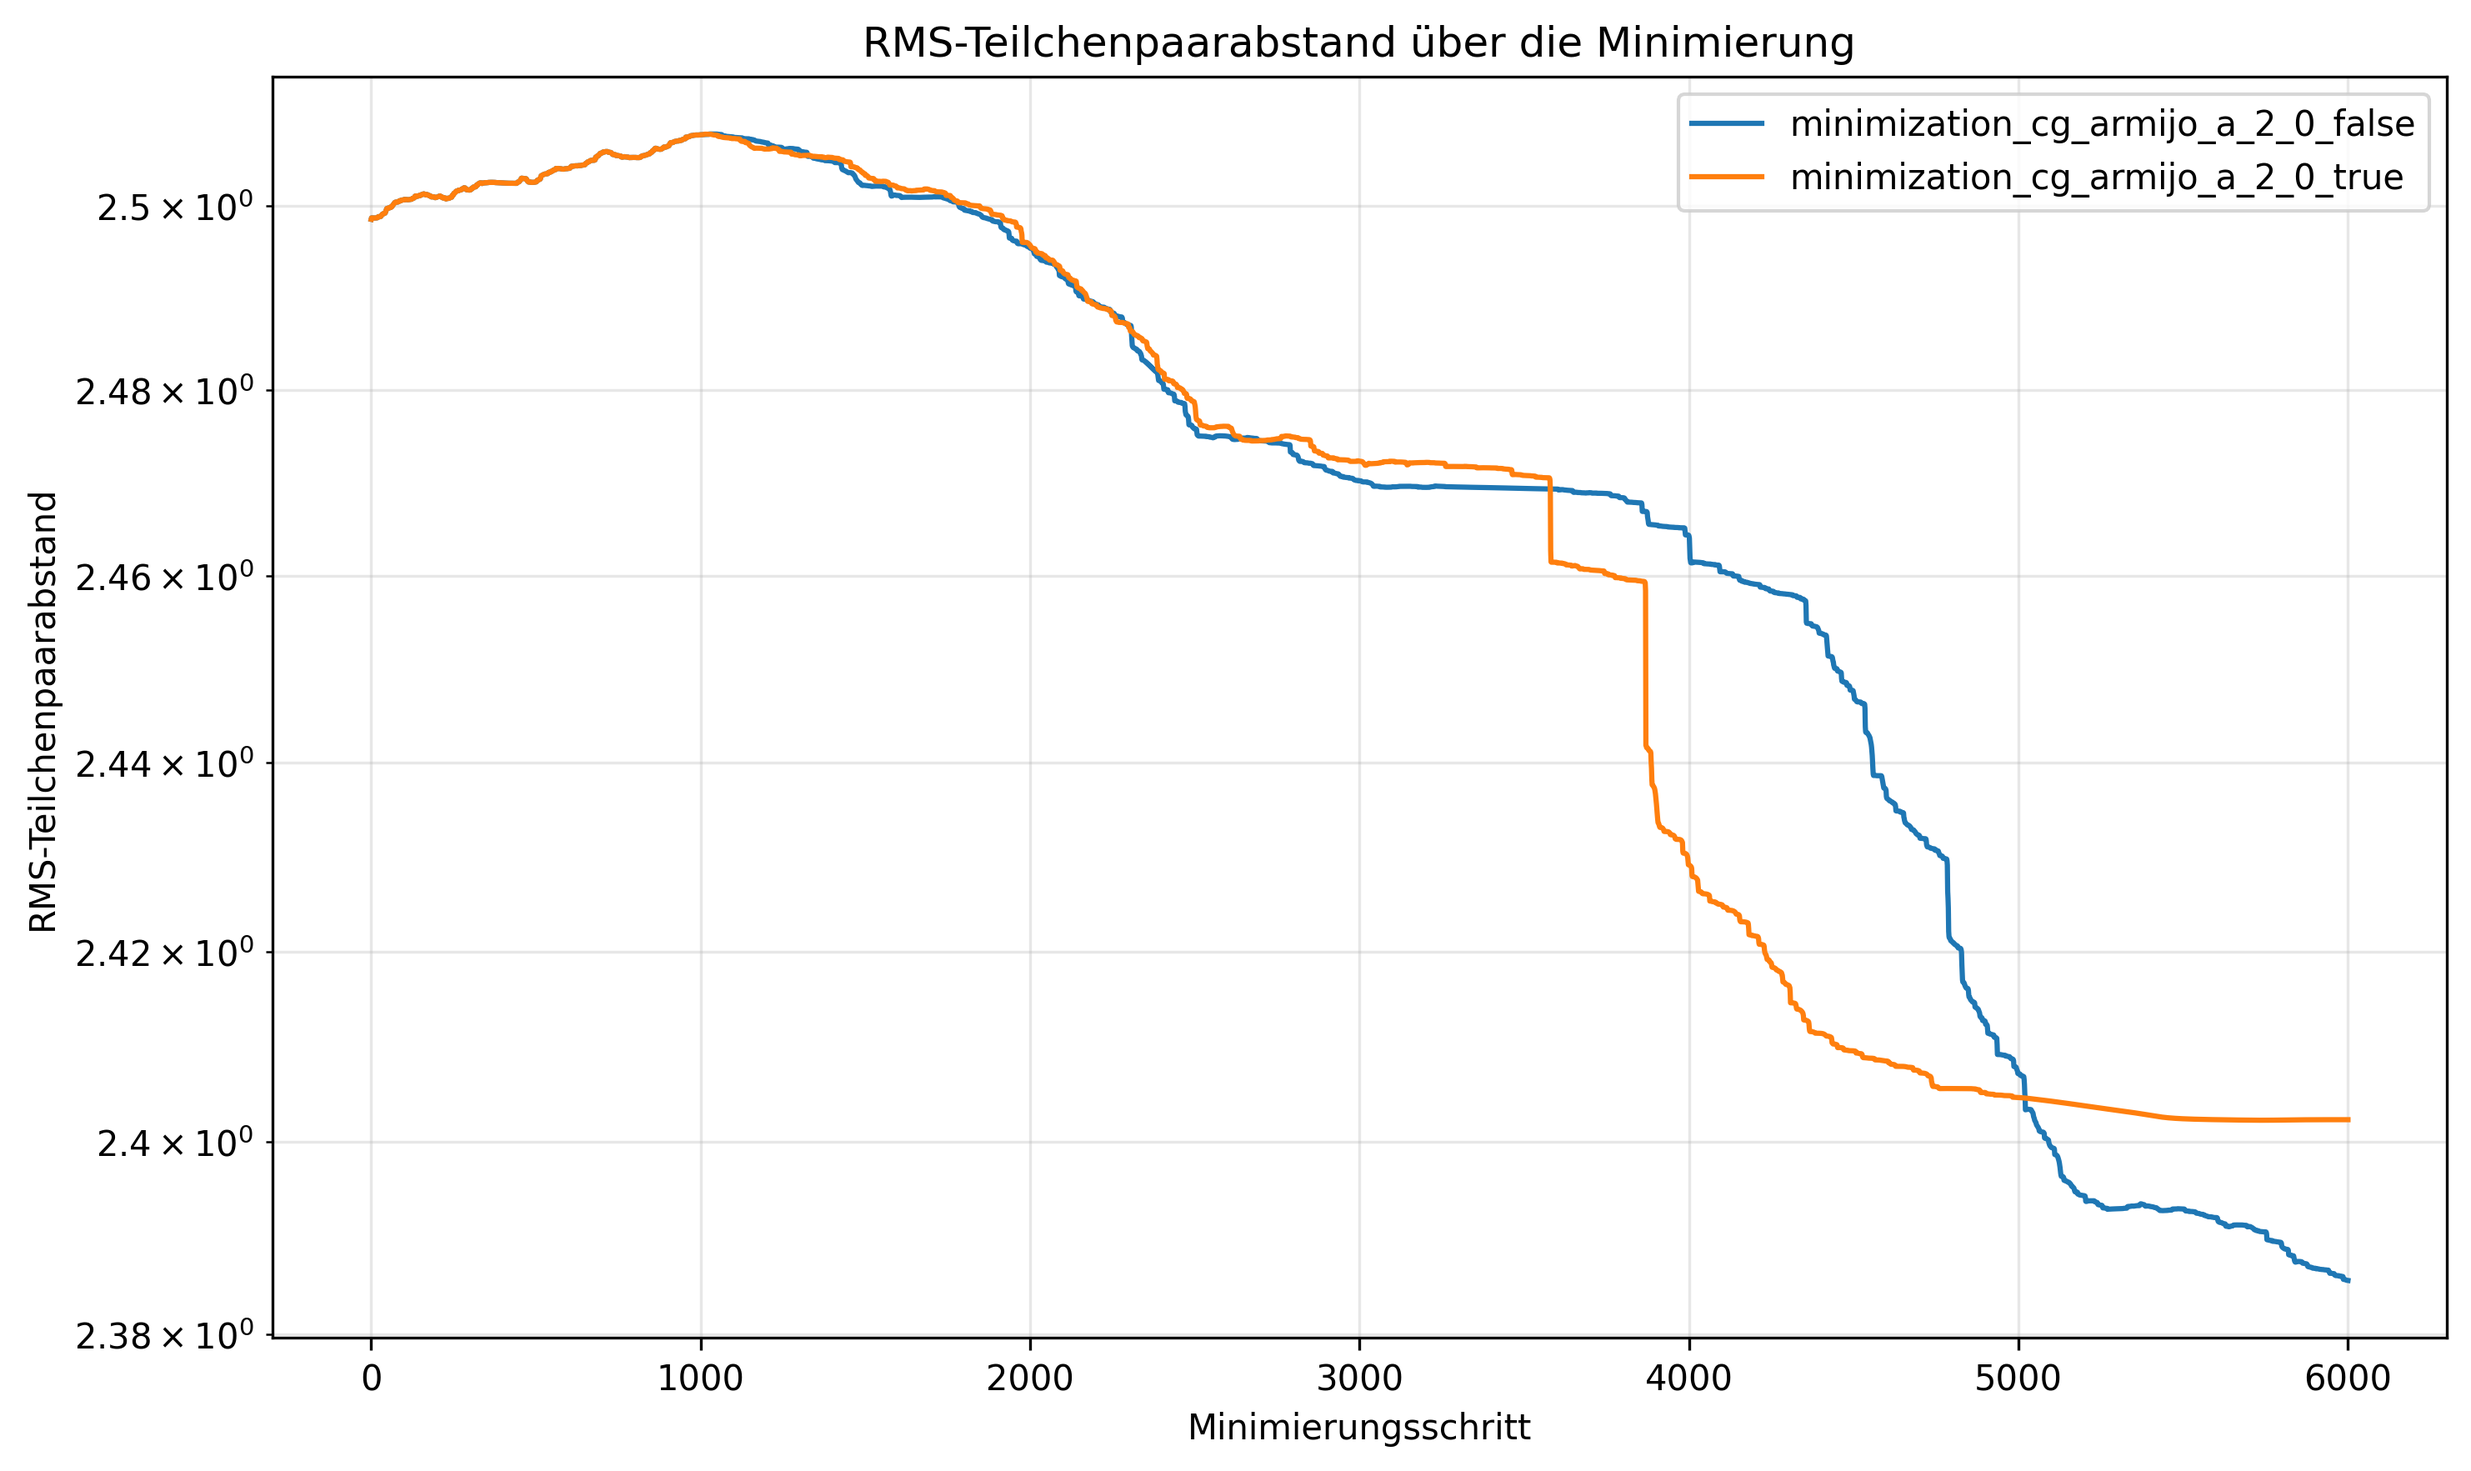
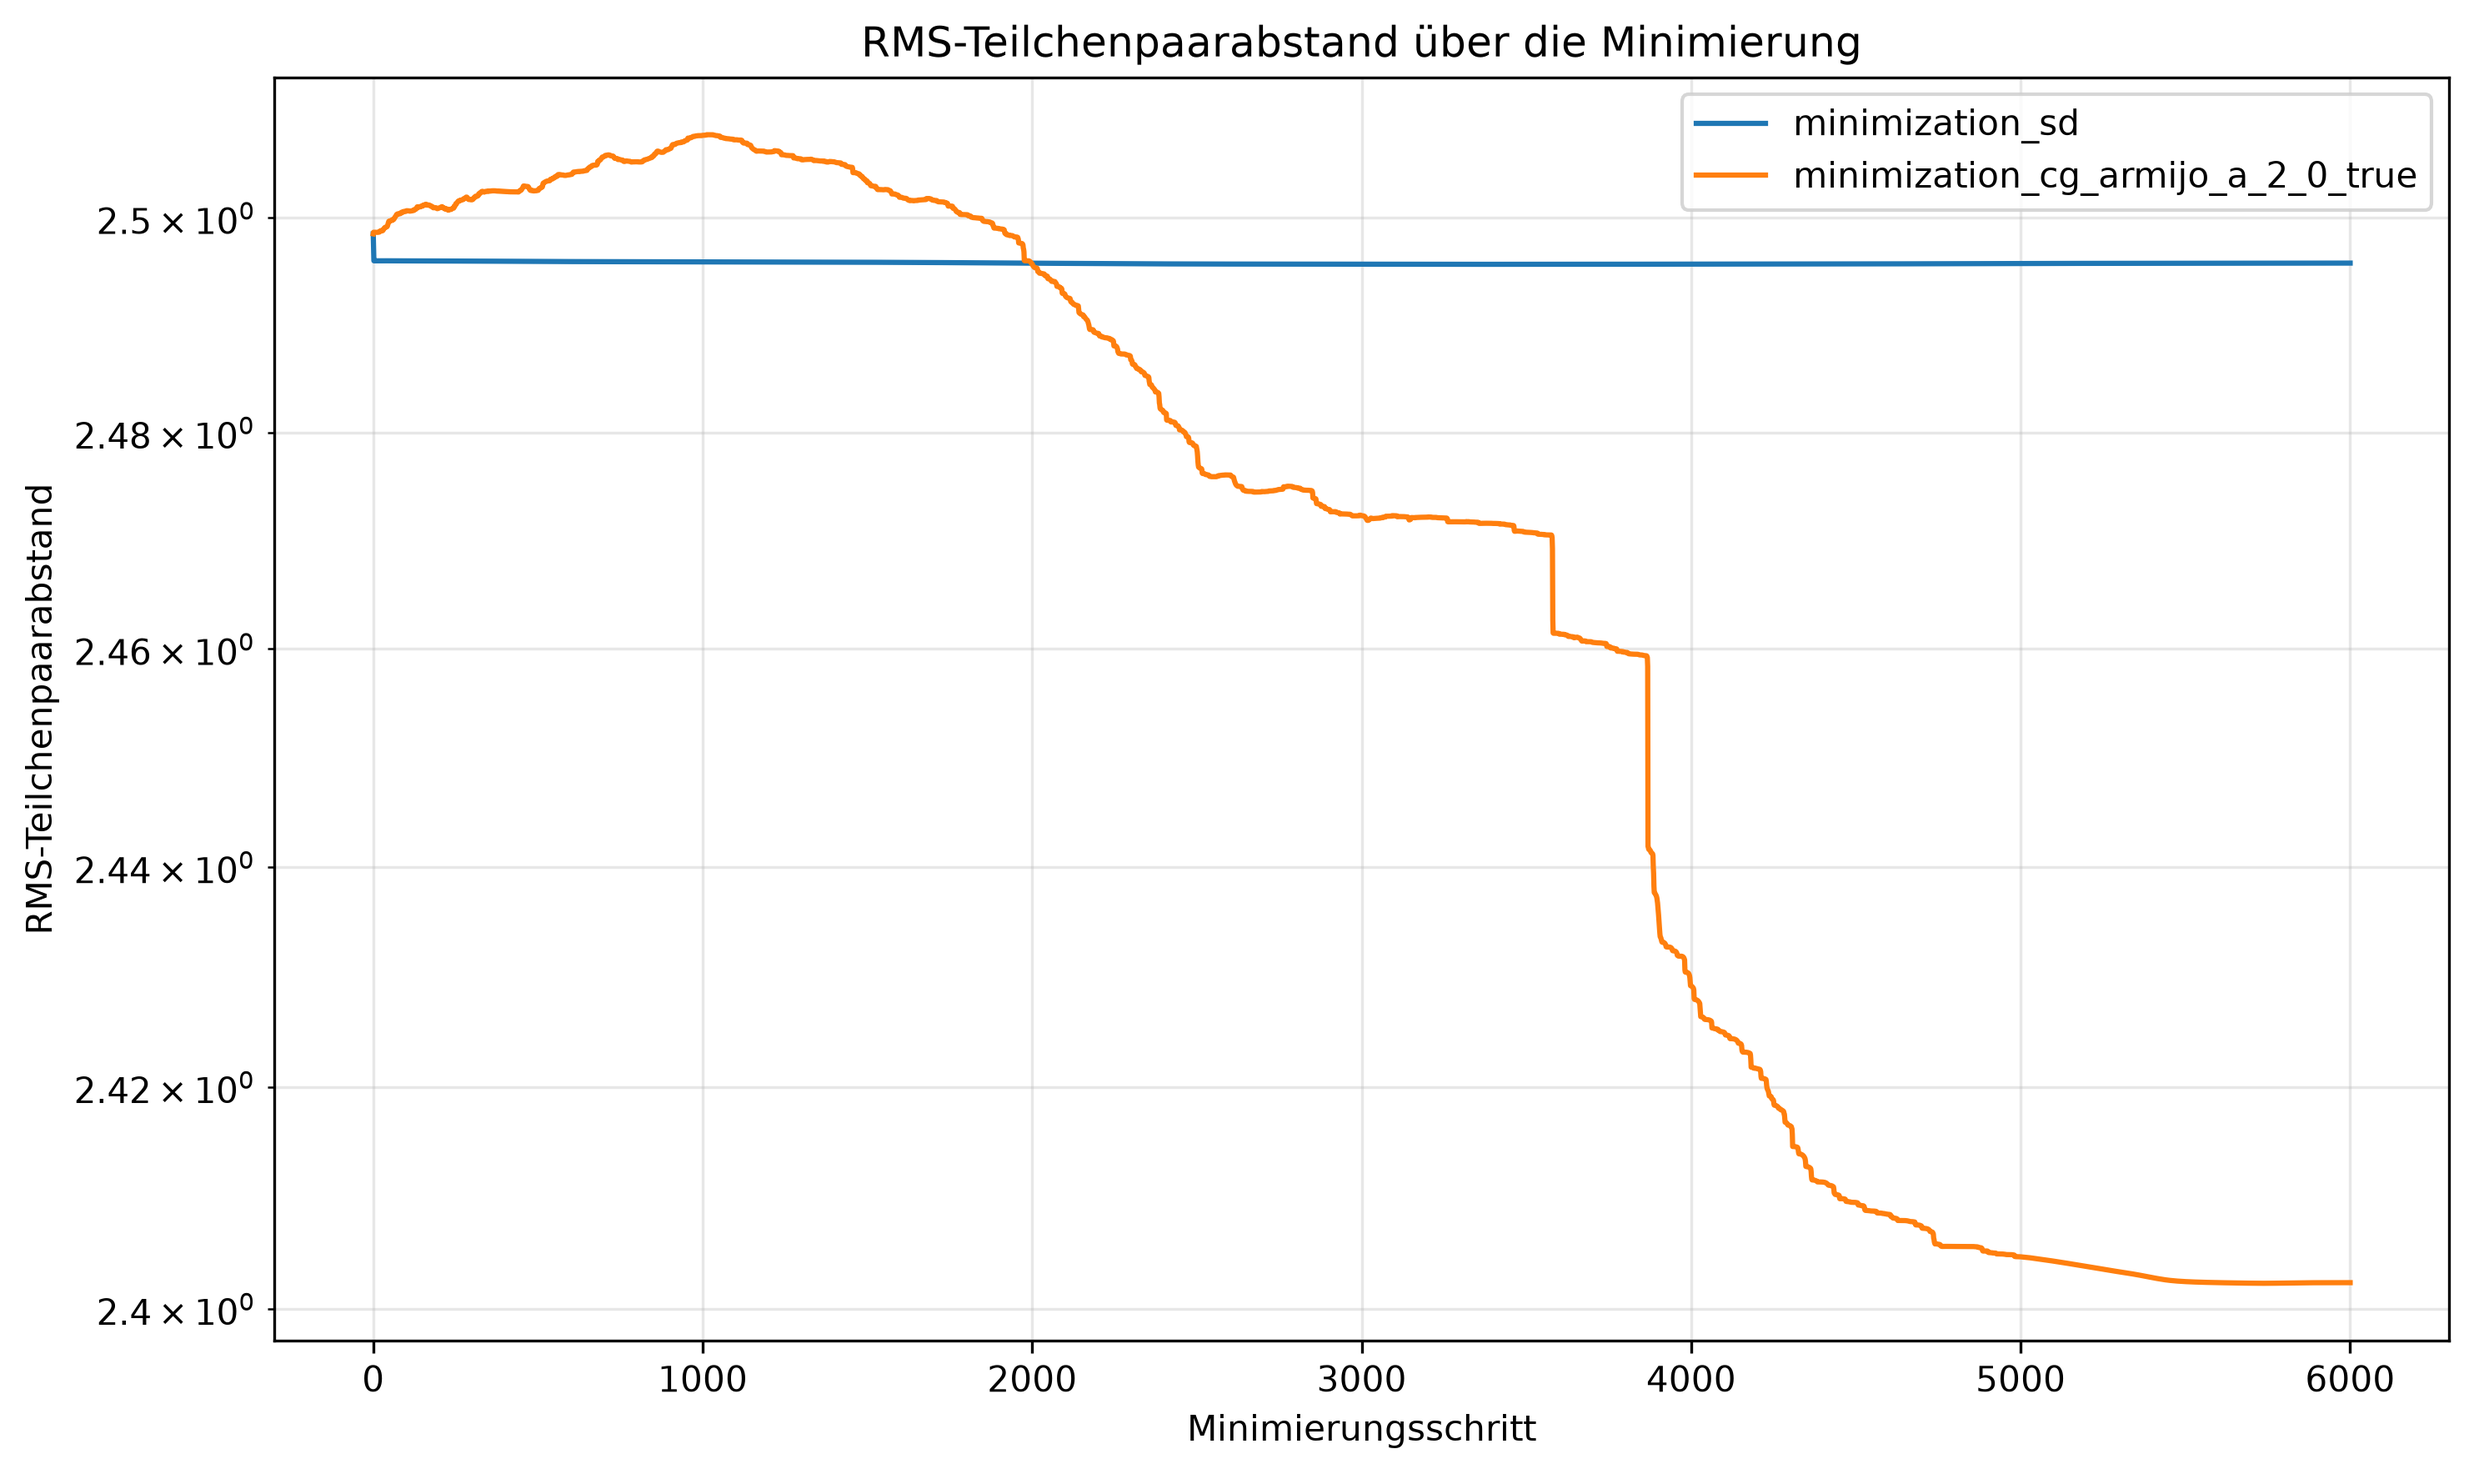
cleanup

diff --git a/run_moritz.py b/run_moritz.py
@@ -7,26 +7,26 @@ from scipy.constants import R
 #   P A R A M E T E R S
 #----------------------------------------------------------------
 # system
-n_particles = 200
+n_particles = 500
 mass_argon = 39.95              # mass in u = 1e-3 kg/mol
 sigma_argon = 0.34              # sigma in nm
 epsilon_argon = 120 * R * 1e-3  # epsilon in kJ/mol
 
 # simulation
 dt = 0.001
-n_steps = 1000
-temperature = 50
-box_length = 5
+n_steps = 30000
+temperature = 80
+box_length = 6
 tau_thermostat = 1
 rij_min = 1e-2
 NVT = True
-seed = 42
+seed = 101
 SD = False
-max_steps = 10000
+max_steps = 6000
 recoursive_alpha = True
-alpha_method = "line_search"
+alpha_method = "amijo"
 alpha_factor = 2.0
-alpha_new_idea = False
+alpha_new_idea = True
 
 
 project_dir = r"C:\Users\morit\_Uni-FU\Semester 4\Molekueldynamik\md-project-08-group-04"

diff --git a/mean -distance.py b/mean -distance.py
@@ -12,7 +12,7 @@ import matplotlib.pyplot as plt
 
 # Hier eine oder mehrere Dateien eintragen
 FILE_PATHS = [
-    Path(r"C:\Users\morit\_Uni-FU\Semester 4\Molekueldynamik\md-project-08-group-04\minimization_output\minimization_cg_armijo_a_2_0_false.csv"),
+    Path(r"C:\Users\morit\_Uni-FU\Semester 4\Molekueldynamik\md-project-08-group-04\minimization_output\minimization_sd.csv"),
     Path(r"C:\Users\morit\_Uni-FU\Semester 4\Molekueldynamik\md-project-08-group-04\minimization_output\minimization_cg_armijo_a_2_0_true.csv"),
     # Path(r"C:\Pfad\zu\minimierung_3.txt"),
 ]
